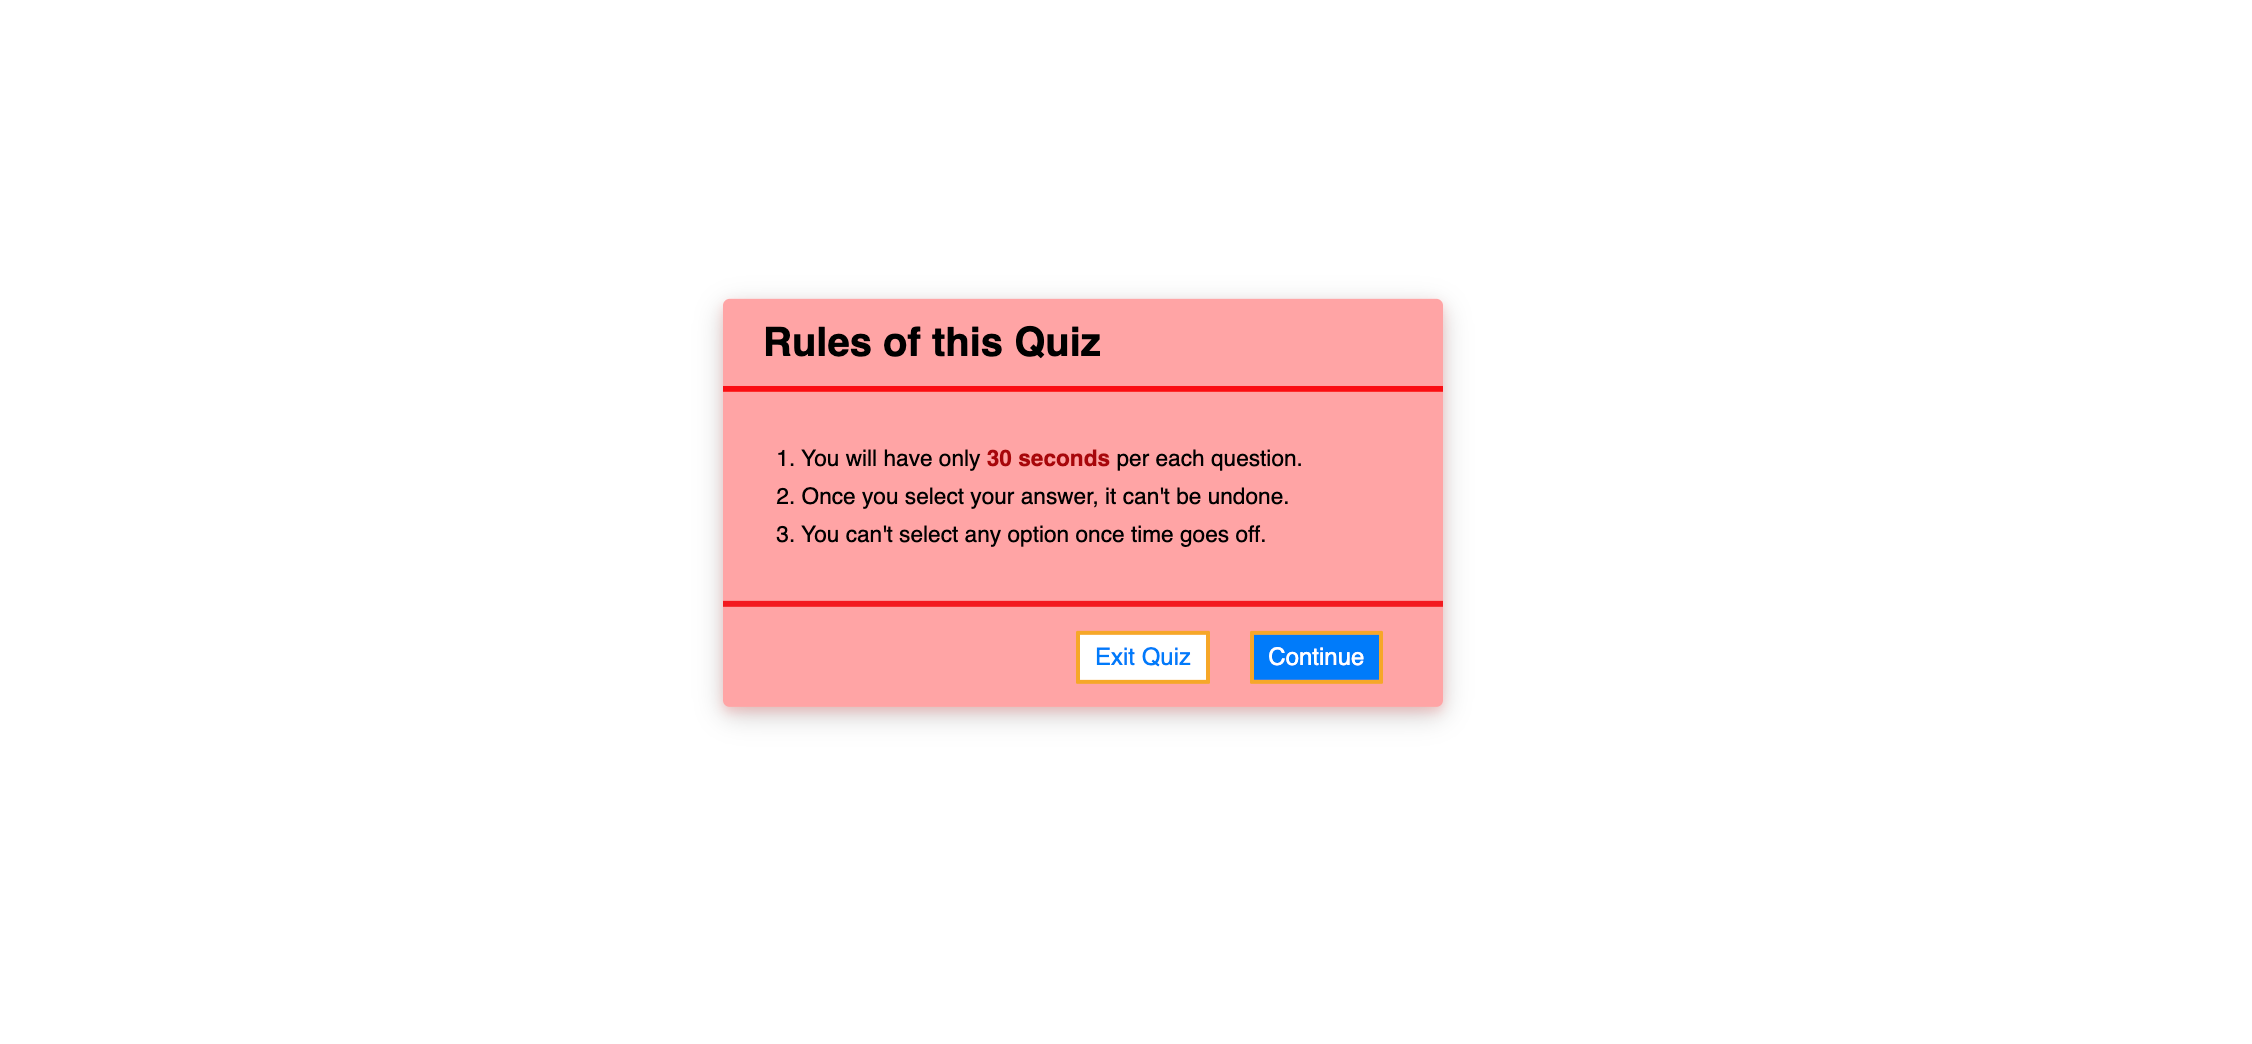
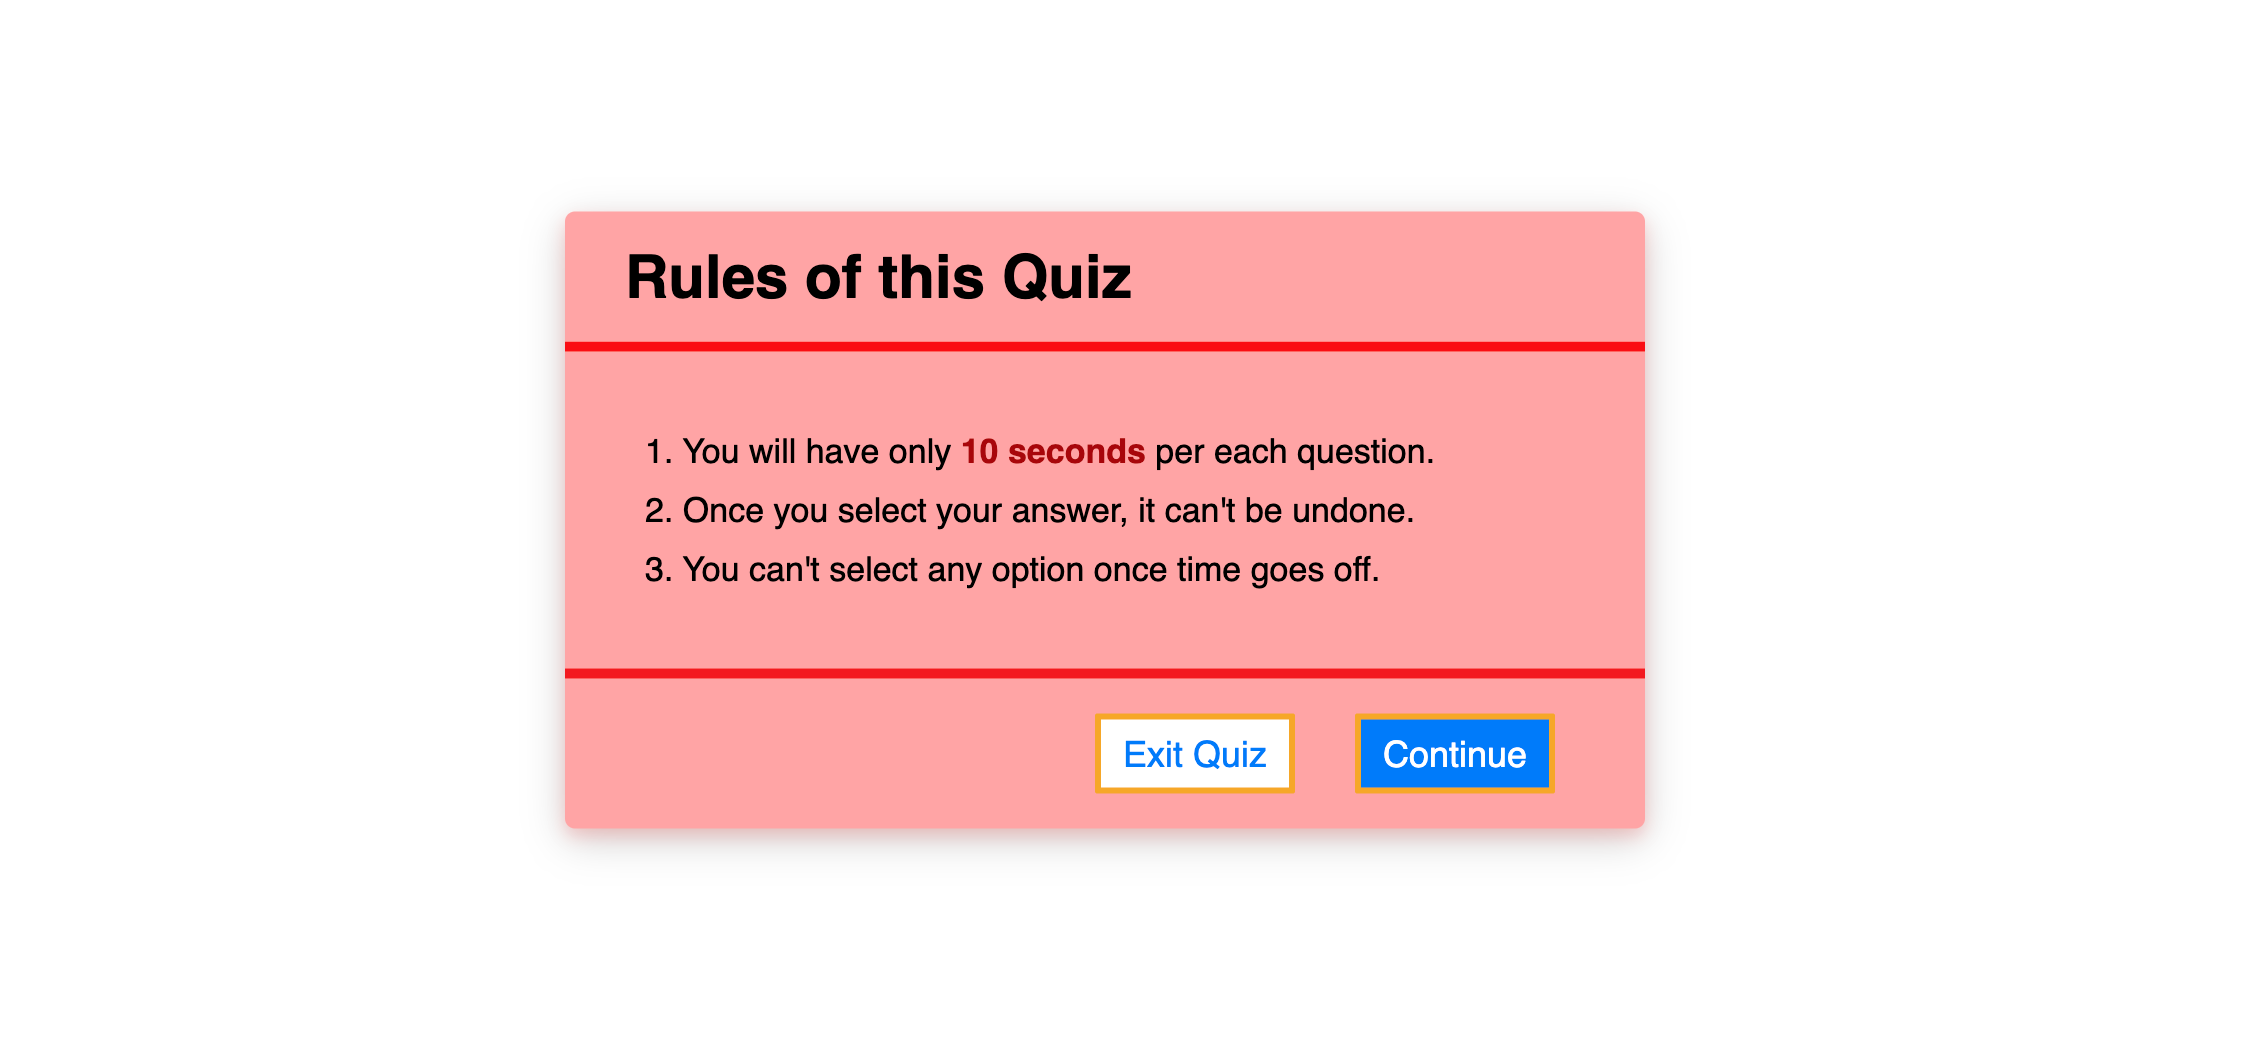
Add files via upload

Changed region(s): [[0.2487, 0.1839, 0.746, 0.8276]]

diff --git a/index.html b/index.html
@@ -17,7 +17,7 @@
     <div class="info_box">
         <div class="info-title"><span>Rules of this Quiz</span></div>
         <div class="info-list">
-            <div class="info">1. You will have only <span>30 seconds</span> per each question.</div>
+            <div class="info">1. You will have only <span>10 seconds</span> per each question.</div>
             <div class="info">2. Once you select your answer, it can't be undone.</div>
             <div class="info">3. You can't select any option once time goes off.</div>
         </div>
